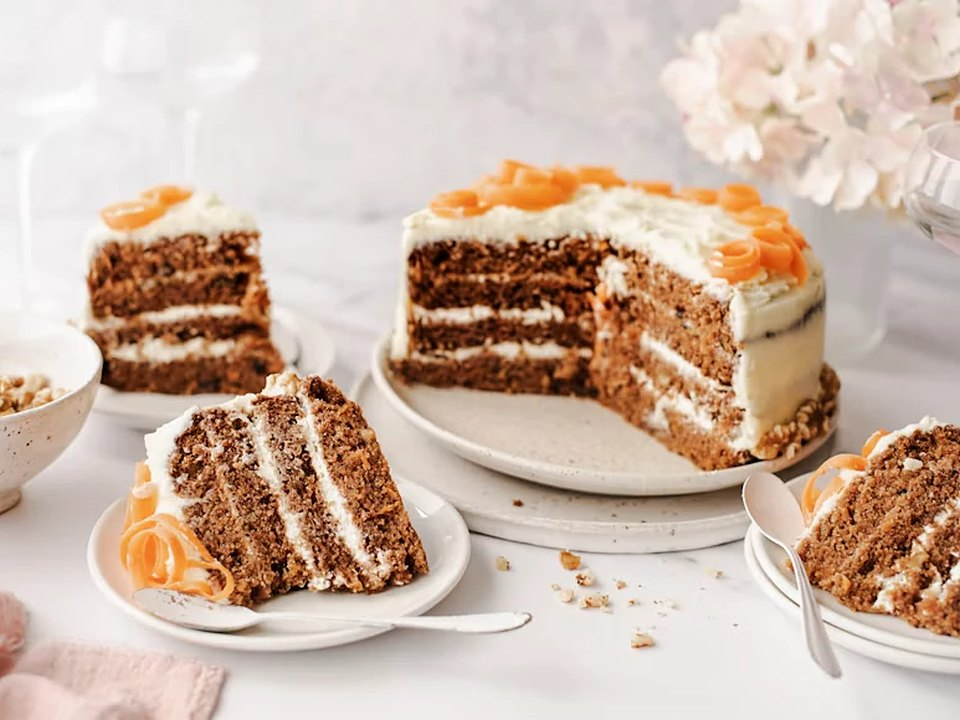
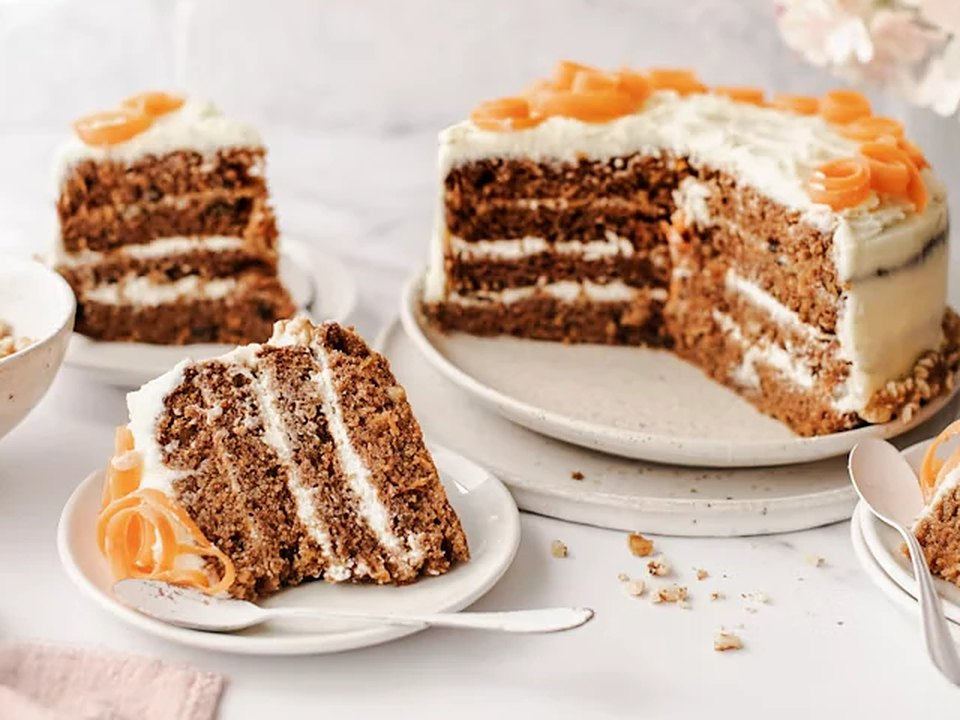
Slatkiši: slika bliže, manje praznog prostora
Claude-Session: https://claude.ai/code/session_01B9Bpq3M6ozgNFSZNP7DVPY

diff --git a/index.html b/index.html
@@ -256,7 +256,7 @@
   <script src="https://cdnjs.cloudflare.com/ajax/libs/leaflet.markercluster/1.5.3/leaflet.markercluster.min.js"></script>
   <script src="js/config.js?v=202610051032"></script>
   <script src="js/data.js?v=202611091345"></script>
-  <script src="js/lists.js?v=202611111000"></script>
+  <script src="js/lists.js?v=202611111015"></script>
   <script src="js/i18n.js?v=202610061130"></script>
   <script src="js/app.js?v=202610061130"></script>
   <script src="js/community.js?v=202610051300"></script>

diff --git a/js/lists.js b/js/lists.js
@@ -78,7 +78,7 @@ const LISTS = [
     title: "Top 10 slatkiši",
     title_en: "Top 10 sweets",
     icon: "🍰",
-    image: "images/lista-slatko.jpg",
+    image: "images/lista-slatko.jpg?v=2",
     intro: "Kolači, sladoled i bubble tea kad zatreba šećer.",
     intro_en: "Cakes, ice cream and bubble tea when you need sugar.",
     places: [
